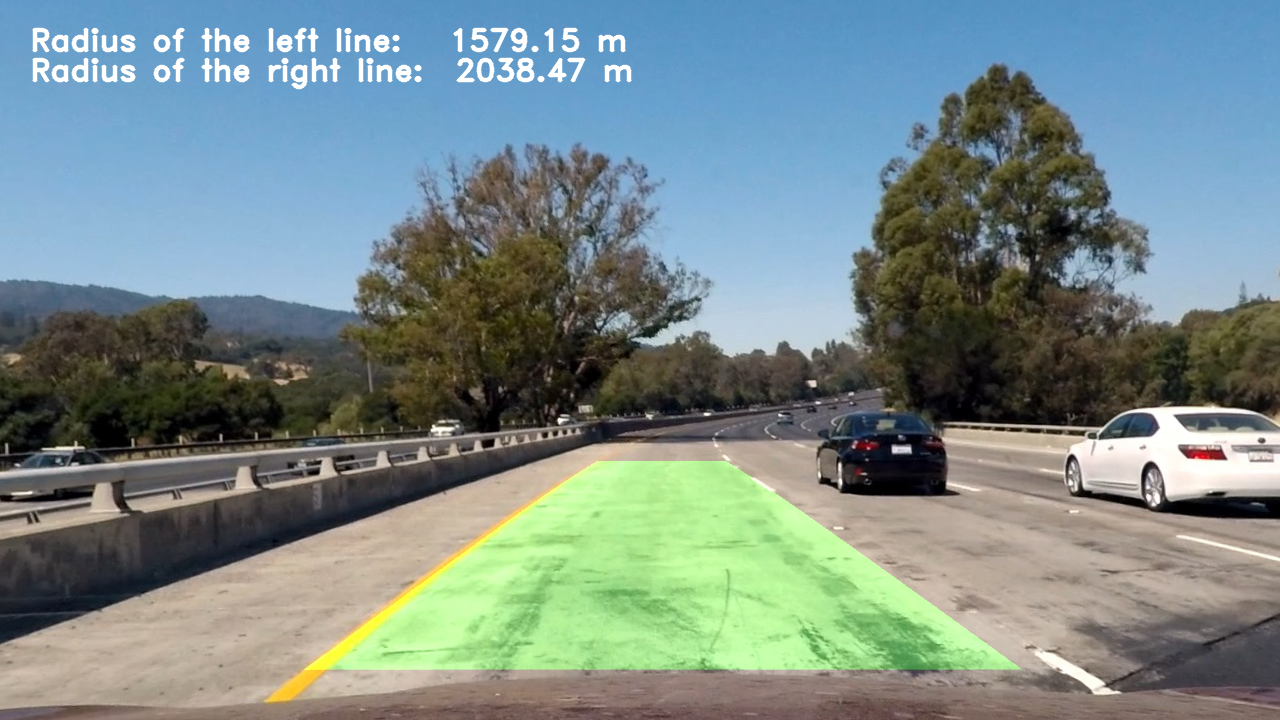
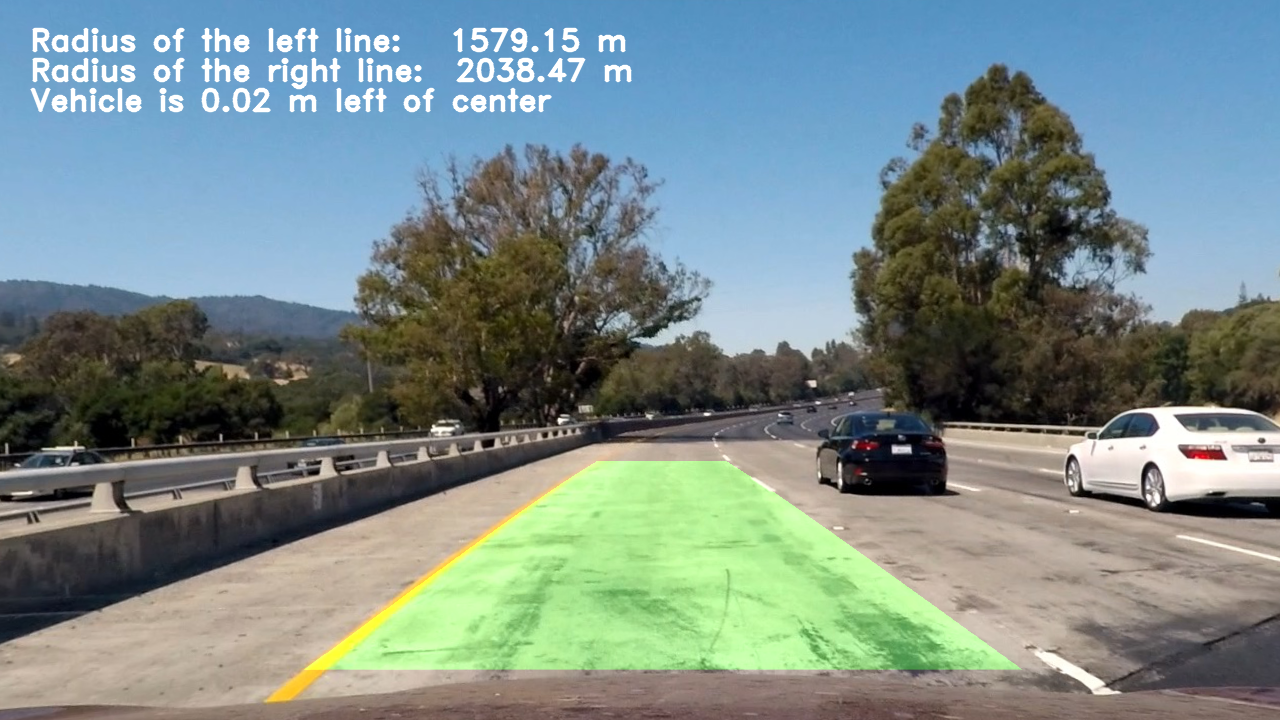
Introduce vehicle's offset

Changed region(s): [[0.0, 0.1222, 0.4375, 0.1528]]

diff --git a/src/find_lane.py b/src/find_lane.py
@@ -462,7 +462,7 @@ class LineDetector(ImageProcessor):
     def process_test_imgs(self, cal_data_file='camera.p', ext='jpg'):
         """ TODO: Add docstring
         """
-        #super(LineDetector, self).process_test_imgs(cal_data_file, ext)
+        super(LineDetector, self).process_test_imgs(cal_data_file, ext)
 
         failed = self.check_calibration(cal_data_file)
 
@@ -642,14 +642,30 @@ class LineDetector(ImageProcessor):
         # Warp the blank back to original image space using inverse perspective matrix
         newwarp = cv2.warpPerspective(color_warp, self.invmtx, (img.shape[1], img.shape[0]))
 
+        # Calculate vhecle offset
+        vehicle_offset = np.mean([right_fitx[-1], left_fitx[-1]]) \
+                         - binary_warped.shape[1]/2
+        vehicle_offset = vehicle_offset * self.xm_per_pix
+        if vehicle_offset < 0:
+            offset_direction = 'right'
+            vehicle_offset = np.absolute(vehicle_offset)
+        else:
+            offset_direction = 'left'
+
         result = cv2.addWeighted(undist, 1, newwarp, 0.3, 0)
         font = cv2.FONT_HERSHEY_DUPLEX
-        cv2.putText(result, 'Radius of the left line: %9.2f m'
-                    % self.left_line.radius_of_curvature,
-                    (30, 50), font, 1, (255, 255, 255), 2, cv2.LINE_AA)
-        cv2.putText(result, 'Radius of the right line: %8.2f m'
-                    % self.right_line.radius_of_curvature,
-                    (30, 80), font, 1, (255, 255, 255), 2, cv2.LINE_AA)
+        cv2.putText(
+            result,
+            'Radius of the left line: {0:9.2f} m'.format(self.left_line.radius_of_curvature),
+            (30, 50), font, 1, (255, 255, 255), 2, cv2.LINE_AA)
+        cv2.putText(
+            result,
+            'Radius of the right line: {0:8.2f} m'.format(self.right_line.radius_of_curvature),
+            (30, 80), font, 1, (255, 255, 255), 2, cv2.LINE_AA)
+        cv2.putText(
+            result,
+            'Vehicle is {0:.2f} m {1} of center'.format(vehicle_offset, offset_direction),
+            (30, 110), font, 1, (255, 255, 255), 2, cv2.LINE_AA)
 
         if test:
             return result, lined

diff --git a/README.md b/README.md
@@ -94,9 +94,11 @@ Then I fit my lane lines with a 2nd order polynomial using all the points detect
 
 ![alt text][image9]
 
-Next, I calculated the radius of curvature of the lins.  I used Bourne's method as descrived in his website "Interactive Mathematics"[[1](#bourne)].  I did this in [lines 598 through 600](./src/find_lane.py#L598-L600) and [lines 411 through 416](./src/find_lane.py#L411-L416) in my code in `find_lane.py`.
+Next, I calculated the radius of curvature of the lins.  I used Bourne's method as descrived in his website "Interactive Mathematics"[[1](#bourne)].  I did this in [lines 597 through 599](./src/find_lane.py#L597-L599) and [lines 411 through 416](./src/find_lane.py#L411-L416) in `find_lane.py`.
 
-Finally, I plotted back down onto the road such that the lane area is identified clearly.  I implemented this step in [lines 632 through 653](./src/find_lane.py#L632-L653) in my code in `find_lane.py`.  Here is an example of my result on a test image:
+Then, I calculated vehicle's offset from the center of the lane.  I assumed that the camera is mounted on the center of the vehicle, so that the center of the image can be considered as the center of the vehicle.  I did this in [lines 645 through 653](./src/find_lane.py#L645-L653) in `find_lane.py`.
+
+Finally, I plotted back down onto the road such that the lane area is identified clearly.  I implemented this step in [lines 631 through 643](./src/find_lane.py#L631-L643) in `find_lane.py`.  Here is an example of my result on a test image:
 
 ![alt text][image10]
 
@@ -104,7 +106,7 @@ Finally, I plotted back down onto the road such that the lane area is identified
 
 ## Pipeline (video)
 
-Here's a [link to my video result on YouTube](https://youtu.be/WROS2aRtOn4).
+Here's a [link](https://youtu.be/WtCxUx6HwNk) to my video result on YouTube.
 
 ---
 
